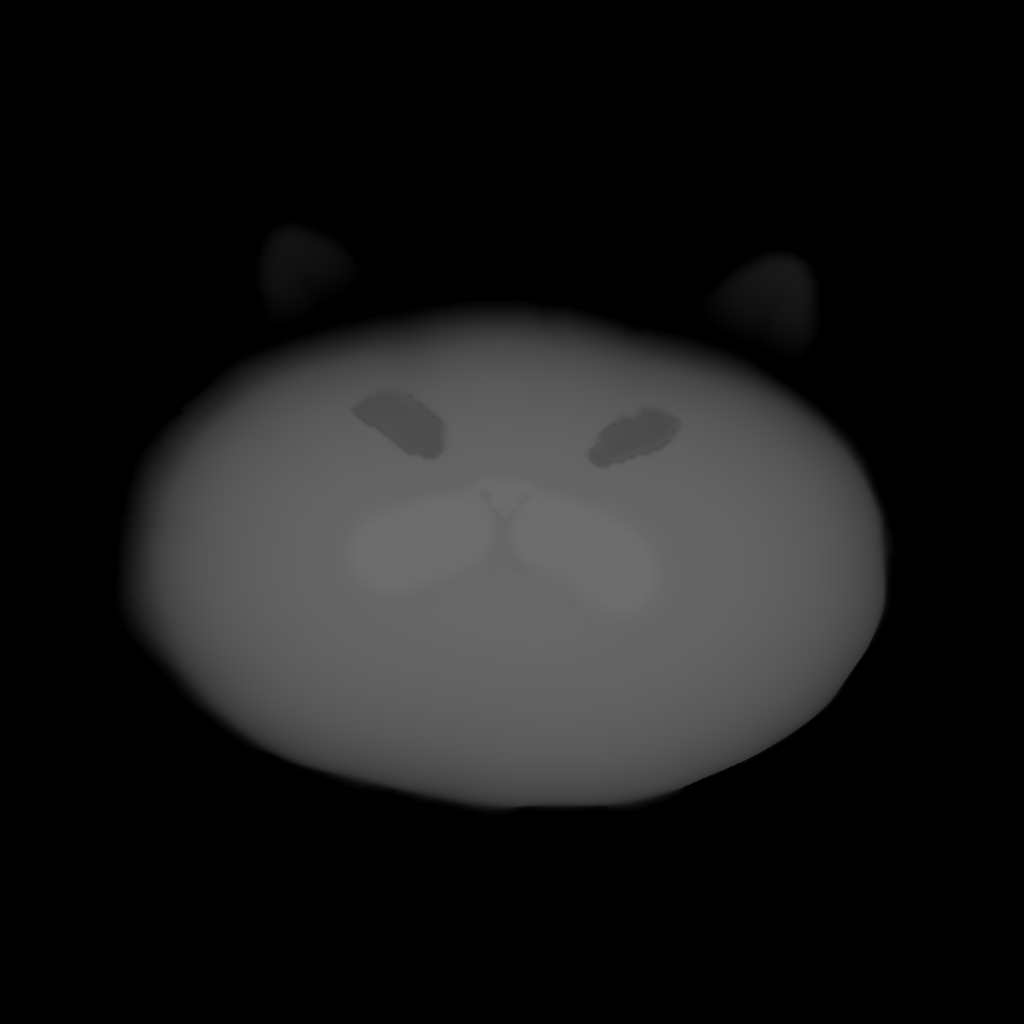
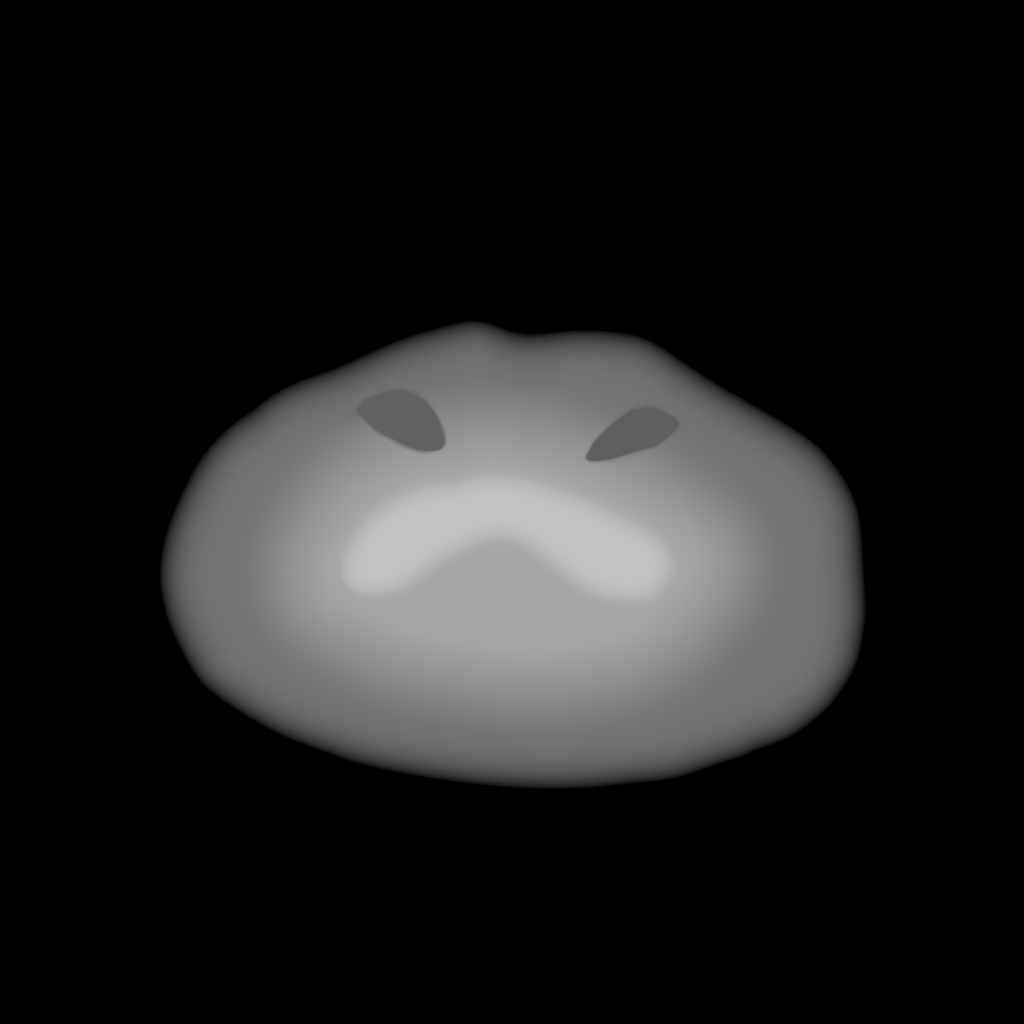
🐛 🔧 Fix and adjust head rotation

Changed region(s): [[0.125, 0.2812, 0.875, 0.8125]]

diff --git a/src/scene/Head.js b/src/scene/Head.js
@@ -14,7 +14,7 @@ export const HEAD_RADIUS = 2.5
 
 // unit is degrees
 export const MAX_HEAD_ROTATION_X = 23
-export const MAX_HEAD_ROTATION_Y = 30
+export const MAX_HEAD_ROTATION_Y = 33
 
 const catHeadKey = assets.queue({
   url: 'assets/cat-head.png',
@@ -38,14 +38,14 @@ class Head extends CANNON.Body {
 
     const headMaterial = new THREE.MeshStandardMaterial({
       displacementMap: assets.get(catHeadDisplacementKey),
-      displacementScale: 2,
-      // displacementBias: -0.428408,
+      displacementScale: 1.2,
+      // displacementBias: 0,
 
       metalness: 0,
 
       map: assets.get(catHeadKey),
 
-      depthTest: false,
+      depthTest: !window.DEBUG,
       transparent: true,
     })
 
@@ -114,26 +114,29 @@ export default class HeadComponent extends THREE.Object3D {
       0,
       this.webgl.height,
       -MAX_HEAD_ROTATION_Y,
-      MAX_HEAD_ROTATION_Y * 0.2,
+      // the magic number is because the head is not
+      // at the center of the page
+      MAX_HEAD_ROTATION_Y * 0.18,
     )
   }
 
   // follow the mouse but with a bit of lerping
   update(dt = 0, time = 0) {
+    const headMesh = this.head.mesh.children[0]
+
+    if (!headMesh) {
+      return
+    }
+
+    const currentRotationX = headMesh.rotation.x
+    const currentRotationY = headMesh.rotation.y
+
     const targetRotationX = degToRad(this.rotationY)
     const targetRotationY = degToRad(this.rotationX)
 
-    // fucking shitty cannon.js,
-    // what about using the function's return?
-    const currentRotation = new CANNON.Vec3()
-    this.head.quaternion.toEuler(currentRotation)
+    const lerpedRotationX = lerp(currentRotationX, targetRotationX, eases.quadInOut(dt * 10))
+    const lerpedRotationY = lerp(currentRotationY, targetRotationY, eases.quadInOut(dt * 10))
 
-    const currentRotationX = currentRotation.x
-    const currentRotationY = currentRotation.y
-
-    const rotationX = lerp(currentRotationX, targetRotationX, eases.quadInOut(dt * 10))
-    const rotationY = lerp(currentRotationY, targetRotationY, eases.quadInOut(dt * 10))
-
-    this.head.quaternion.setFromEuler(rotationX, rotationY, 0)
+    headMesh.rotation.set(lerpedRotationX, lerpedRotationY, 0)
   }
 }
